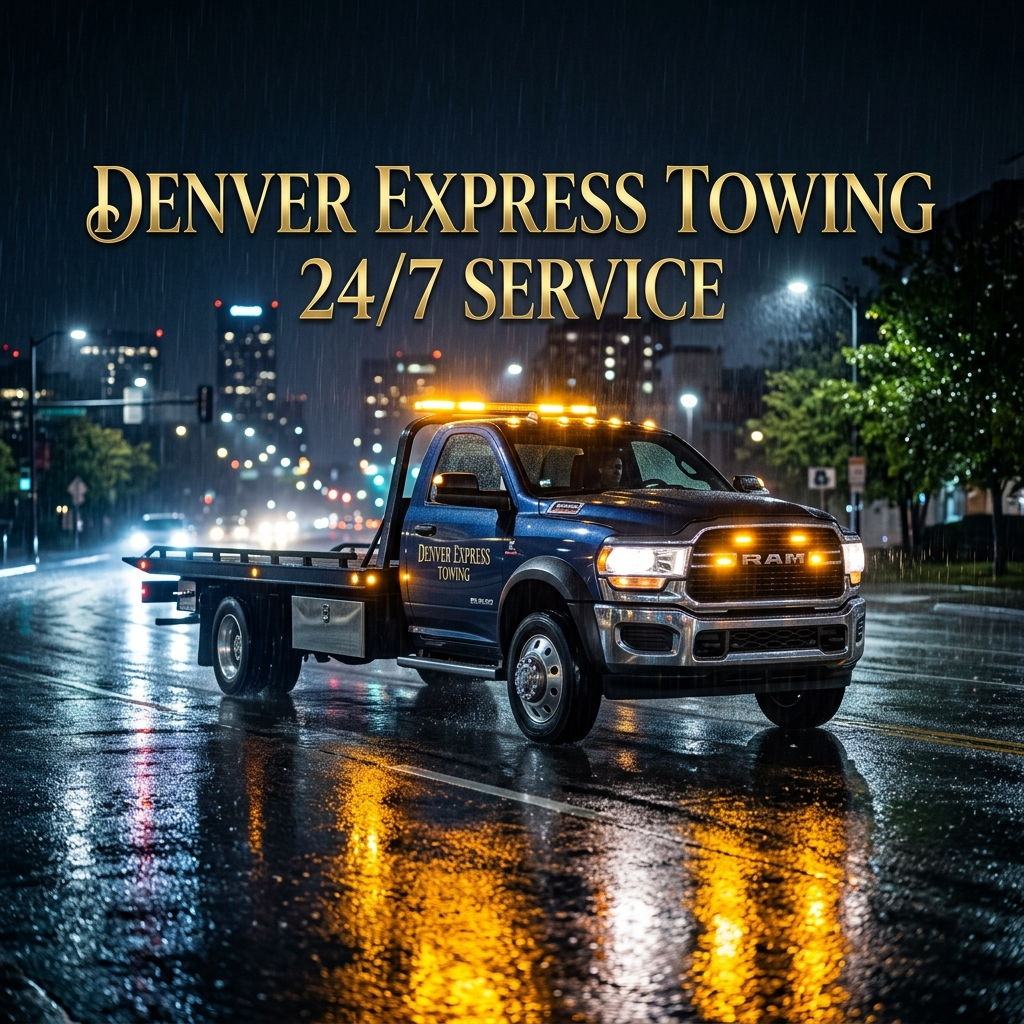
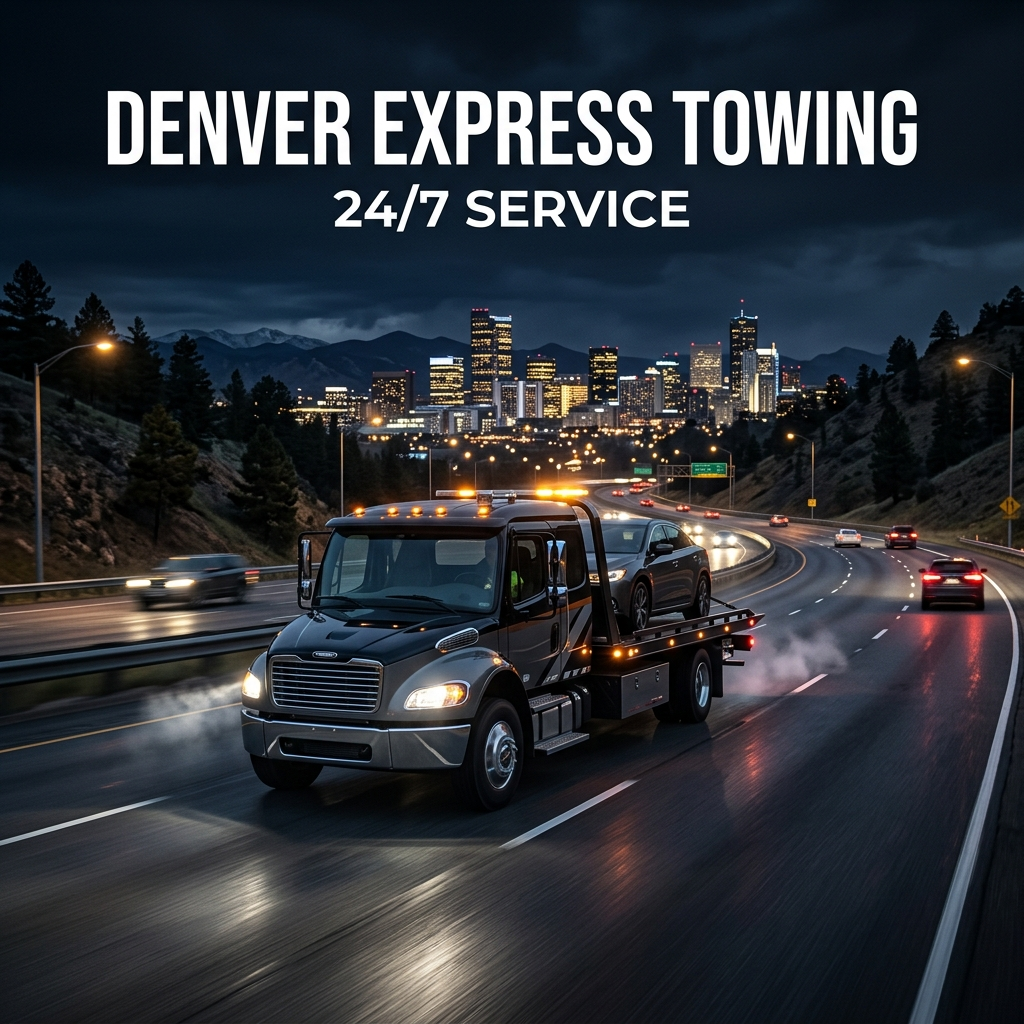
Done

diff --git a/contact.html b/contact.html
@@ -98,26 +98,27 @@
       <!-- Contact Form -->
       <div class="premium-form-container fade-in">
         <h2 style="color: var(--clr-gold); margin-bottom: 2rem; text-align: center;">Send Us a Message</h2>
-        <form id="contactForm">
+        <form id="contactForm" action="https://api.web3forms.com/submit" method="POST">
+          <input type="hidden" name="access_key" value="7e9e94c2-ed5d-49a6-9f0f-2ee2bf462840">
           <div class="form-row">
             <div class="form-group">
               <label for="conName">Full Name</label>
-              <input type="text" id="conName" required placeholder="John Doe">
+              <input type="text" id="conName" name="name" required placeholder="John Doe">
             </div>
             <div class="form-group">
               <label for="conPhone">Phone Number</label>
-              <input type="tel" id="conPhone" required placeholder="[phone redacted]">
+              <input type="tel" id="conPhone" name="phone" required placeholder="[phone redacted]">
             </div>
           </div>
           
           <div class="form-group">
             <label for="conEmail">Email Address</label>
-            <input type="email" id="conEmail" required placeholder="[email redacted]">
+            <input type="email" id="conEmail" name="email" required placeholder="[email redacted]">
           </div>
           
           <div class="form-group">
             <label for="conMessage">Message</label>
-            <textarea id="conMessage" required placeholder="How can we help you today?"></textarea>
+            <textarea id="conMessage" name="message" required placeholder="How can we help you today?"></textarea>
           </div>
 
           <button type="submit" class="btn btn-primary btn-full" style="font-size: 1.1rem; padding: 1.2rem;">Send Message</button>

diff --git a/index.html b/index.html
@@ -90,12 +90,13 @@
         <div class="booking-card">
           <h3 style="font-size: 1.8rem; margin-bottom: 0.5rem; text-align: center;">Request a Tow Now</h3>
           <p style="text-align: center; color: var(--clr-text-muted); margin-bottom: 1.5rem; font-size: 0.9rem;">Fast dispatch. Transparent pricing.</p>
-          <form id="bookingForm" onsubmit="event.preventDefault(); alert('Booking form submitted successfully! We will contact you shortly.');">
+          <form id="bookingForm" action="https://api.web3forms.com/submit" method="POST">
+            <input type="hidden" name="access_key" value="7e9e94c2-ed5d-49a6-9f0f-2ee2bf462840">
             <div style="display: flex; flex-direction: column; gap: 1rem;">
-              <input type="text" class="form-control" placeholder="Your Name" required>
-              <input type="tel" class="form-control" placeholder="Phone Number" required>
-              <input type="text" class="form-control" placeholder="Pickup Location" required>
-              <select class="form-control" required>
+              <input type="text" name="name" class="form-control" placeholder="Your Name" required>
+              <input type="tel" name="phone" class="form-control" placeholder="Phone Number" required>
+              <input type="text" name="location" class="form-control" placeholder="Pickup Location" required>
+              <select name="service" class="form-control" required>
                 <option value="" disabled selected>Service Needed</option>
                 <option value="towing">Towing</option>
                 <option value="flatbed">Flatbed Towing</option>

diff --git a/reservation.html b/reservation.html
@@ -62,7 +62,8 @@
       <div class="premium-form-container fade-in">
         <h2 style="color: var(--clr-gold); margin-bottom: 2rem; text-align: center;">Secure Reservation Request</h2>
         
-        <form id="reservationForm">
+        <form id="reservationForm" action="https://api.web3forms.com/submit" method="POST">
+            <input type="hidden" name="access_key" value="7e9e94c2-ed5d-49a6-9f0f-2ee2bf462840">
           <div class="form-row">
             <div class="form-group">
               <label for="resName">Full Name</label>